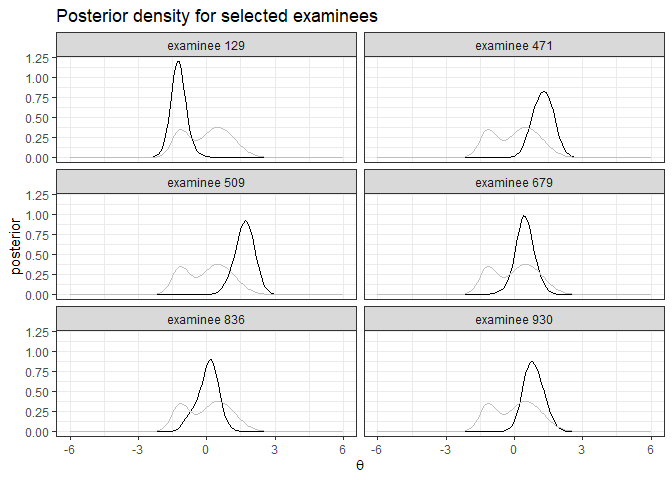
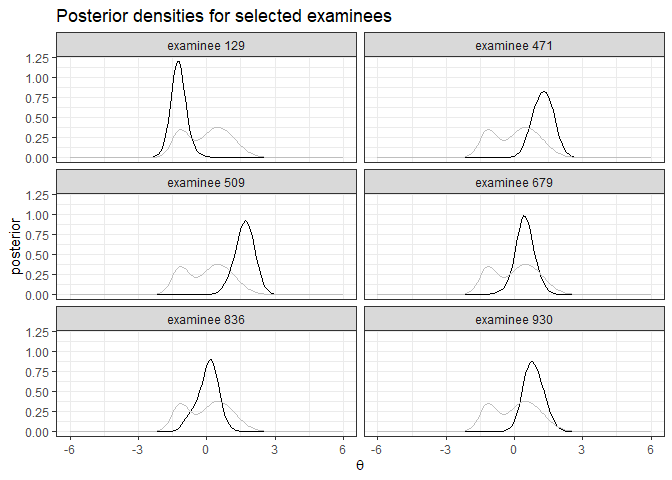
readme changed

Changed region(s): [[0.25, 0.0, 0.5938, 0.0625]]

diff --git a/README.md b/README.md
@@ -93,7 +93,6 @@ Mod1 <- IRTest_Dich(initialitem = initialitem,
                     data = data,
                     model = rep("1PL", 20),
                     latent_dist = "EHM",
-                    max_iter = 200,
                     threshold = .001
                     )
 ```
@@ -187,7 +186,7 @@ post_sample <- data.frame(X=rep(seq(-6,6, length.out=121),6),
                           ID=rep(paste("examinee", selected_examinees), each=121))
 ggplot(data=post_sample, mapping=aes(x=X, y=posterior, group=ID))+
   geom_line()+
-  labs(title="Posterior density for selected examinees", x=expression(theta))+
+  labs(title="Posterior densities for selected examinees", x=expression(theta))+
   facet_wrap(~ID, ncol=2)+
   annotate(geom="line", x=seq(-6,6,length=121), 
                         y=dist2(seq(-6,6,length=121),prob = .3, d=1.664, sd_ratio = 2), colour="grey")+
